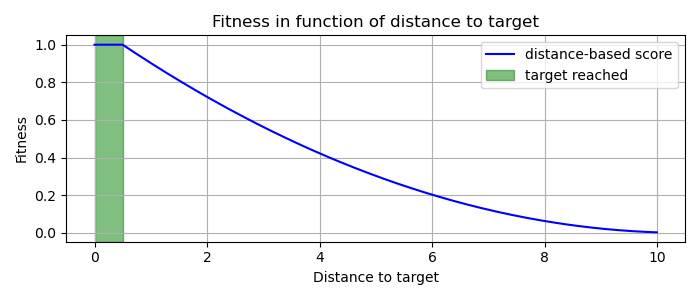
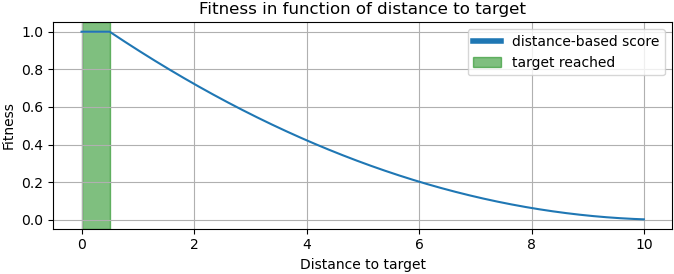
Minor updates

Changed region(s): [[0.0, 0.0, 1.0, 0.9927], [0.0935, 0.8759, 0.1246, 0.9051]]

diff --git a/population/utils/visualizing/fitness_function_visualizer.py b/population/utils/visualizing/fitness_function_visualizer.py
@@ -10,6 +10,7 @@ import matplotlib.pyplot as plt
 from numpy import clip
 
 from config import GameConfig
+from utils.dictionary import *
 
 
 def distance(save: bool = True):
@@ -32,7 +33,7 @@ def distance(save: bool = True):
     plt.figure(figsize=(7, 3))
     
     # Plot the distance function
-    plt.plot(x, y, 'b', label='distance-based score')
+    plt.plot(x, y, color=COLORS[D_NEAT], label='distance-based score')
     plt.axvspan(0, cfg.target_reached, alpha=0.5, color='green', label='target reached')
     
     # Beautify the plot
@@ -40,10 +41,13 @@ def distance(save: bool = True):
     plt.xlabel("Distance to target")
     plt.xticks([i * 2 for i in range(round(diagonal / 2) + 1)])
     plt.ylabel("Fitness")
-    plt.legend()
+    leg = plt.legend()
+    for line in leg.get_lines():
+        line.set_linewidth(4.0)
     plt.tight_layout()
     plt.grid()
-    if save: plt.savefig('population/utils/visualizing/images/distance_fitness.png')
+    if save:
+        plt.savefig('population/utils/visualizing/images/distance_fitness.png', bbox_inches='tight', pad_inches=0.02)
     plt.show()
     plt.close()
 

diff --git a/README.md b/README.md
@@ -23,8 +23,7 @@ Introducing GRU components in NEAT to enhance interpretation of its a robot's su
     * Work further on experiment 3 if enough time left, first focus on experiment 1 and 2!
     * Topology 3 (experiment6) is incapable of finding a solution
     * Perhaps interesting to show progress of probability distribution over time (GIF for experiment 2, see how distributions shift over the generations)
-* Questions:
-    * Explain ANOVA in thesis, or just discuss my results for the ANOVA and how these are interpreted?
+    * Karl (Wannes?) are up to reading through the thesis for feedback 
 
 
 ## Main Idea
